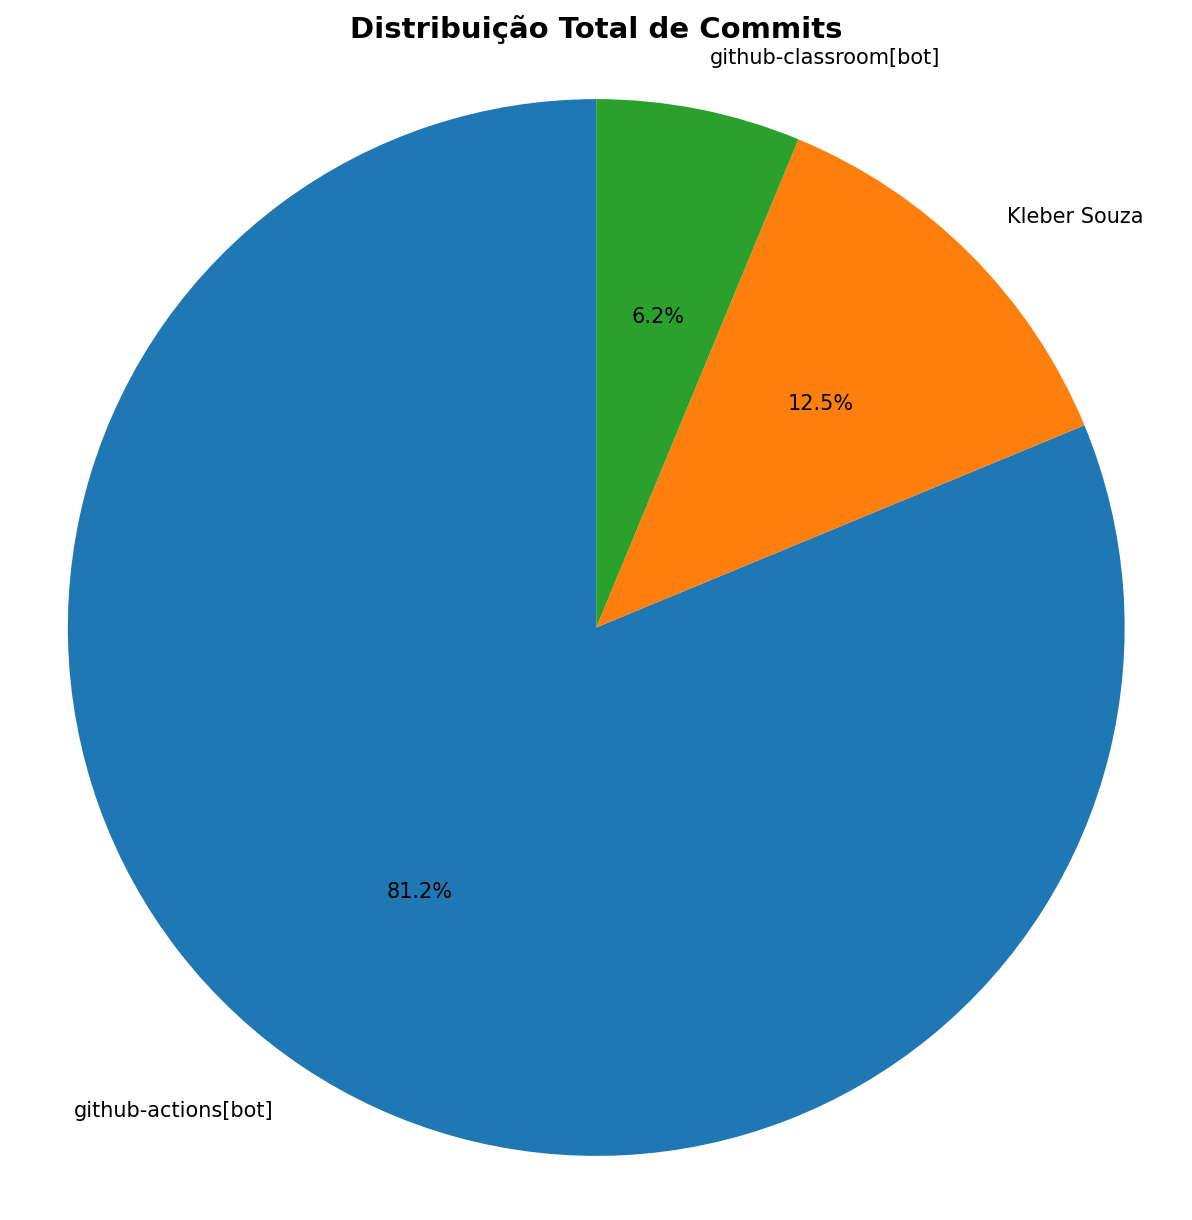
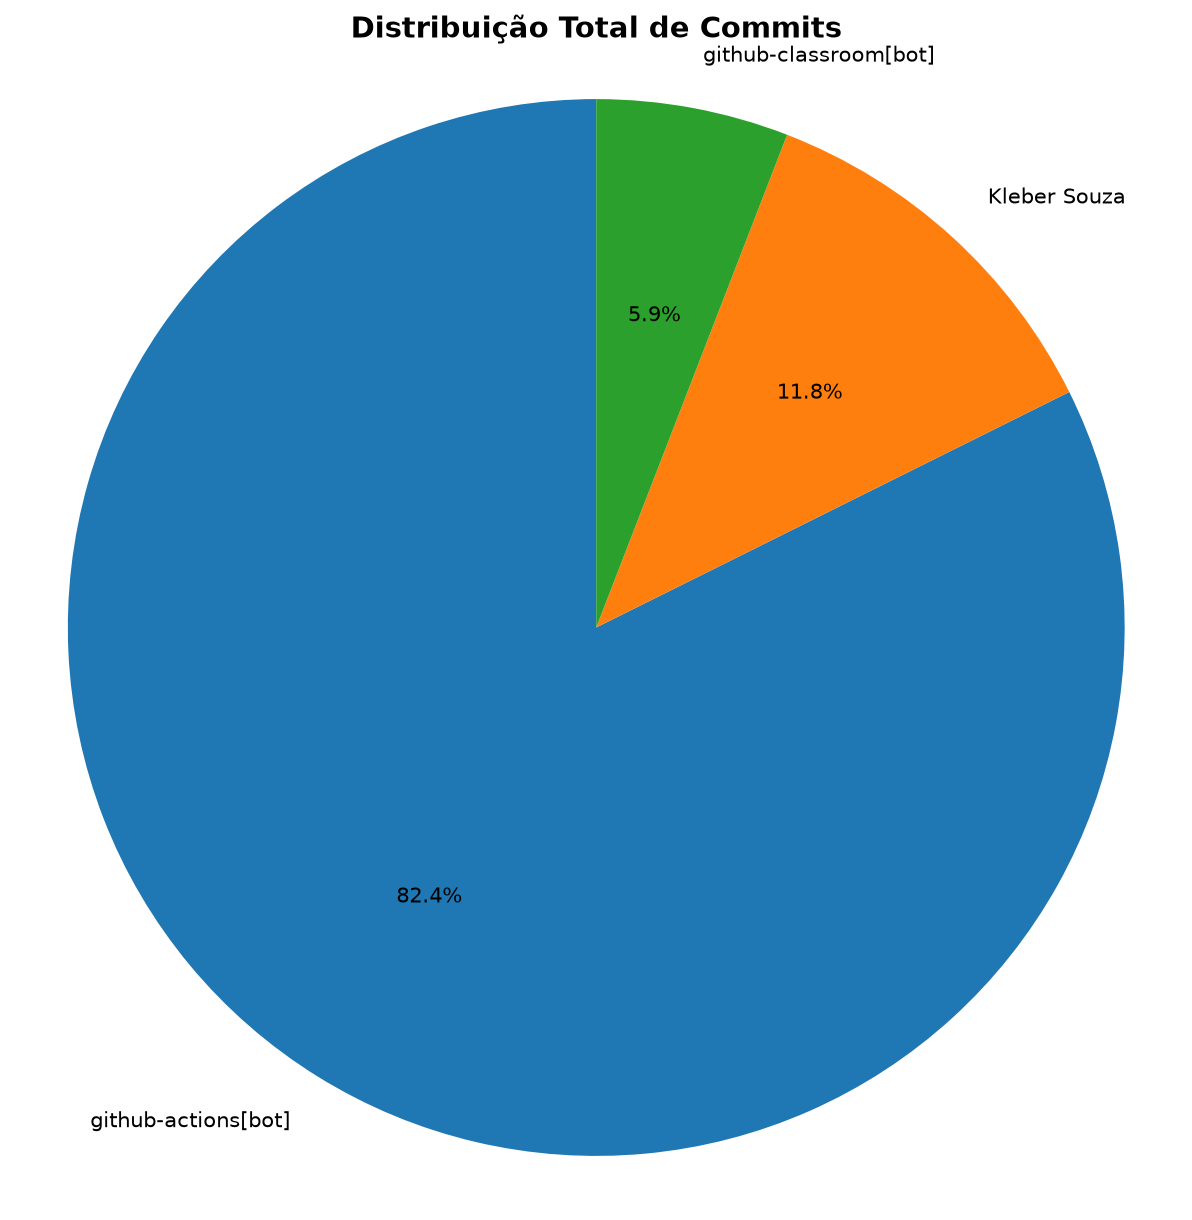
📊 Atualizar relatório de contribuições [skip ci]

diff --git a/documentos/CONTRIBUTION_REPORT.md b/documentos/CONTRIBUTION_REPORT.md
@@ -1,6 +1,6 @@
 # 📊 Relatório de Contribuições do Projeto
 
-**Última atualização:** 08/06/2026 03:36
+**Última atualização:** 15/06/2026 03:52
 
 ---
 
@@ -9,13 +9,15 @@
 | Aluno                 |   Commits |   Linhas+ |   Linhas- |   Arquivos |   Docs Commits |   Docs Arquivos |
 |-----------------------|-----------|-----------|-----------|------------|----------------|-----------------|
 | Kleber Souza          |         2 |         2 |         2 |          2 |              2 |               1 |
-| github-actions[bot]   |        13 |        89 |        26 |          3 |             13 |               1 |
+| github-actions[bot]   |        14 |        93 |        28 |          3 |             14 |               1 |
 | github-classroom[bot] |         1 |       774 |         0 |         19 |              1 |               3 |
 
 
 ## 📅 Contribuições Semanais (Todo o Semestre)
 
 **2026-06-01**: github-actions[bot]: 1
+
+**2026-05-25**: github-actions[bot]: 1
 
 **2026-05-18**: github-actions[bot]: 1
 
